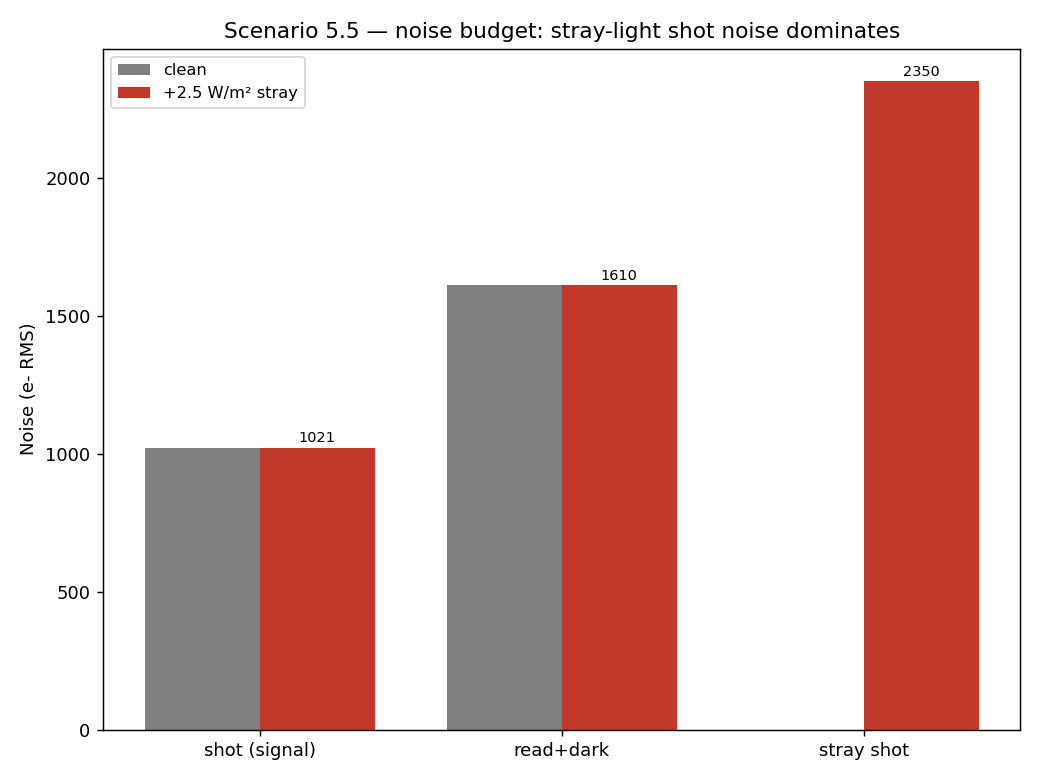
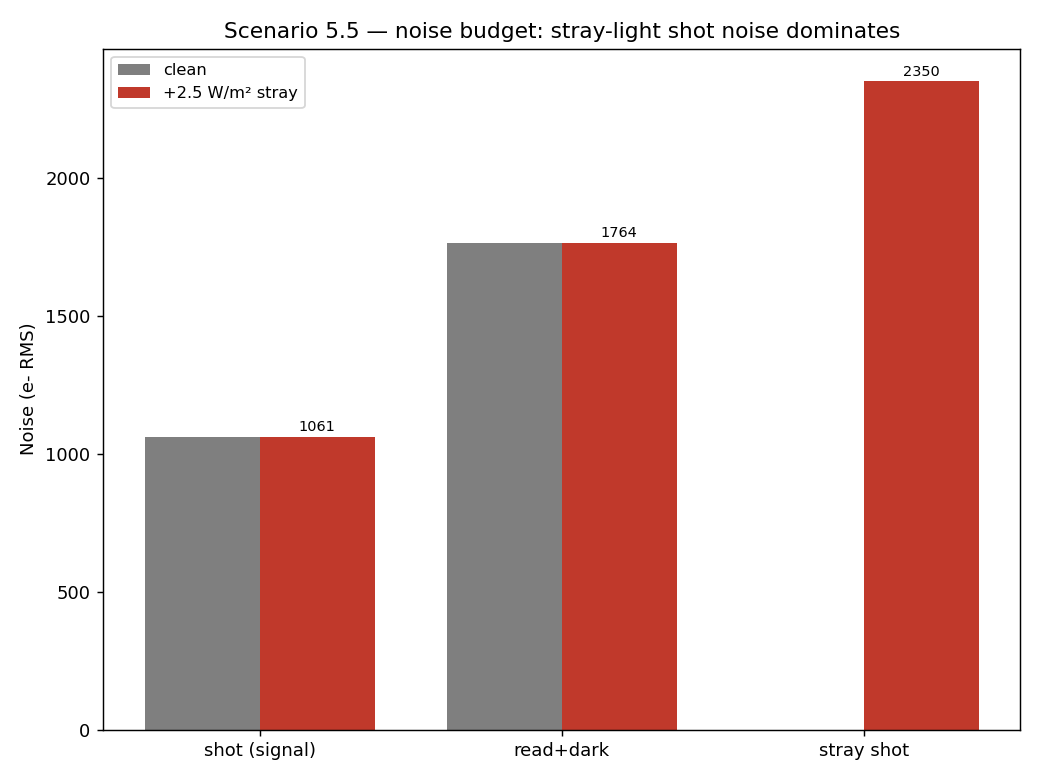
docs(scenarios): CU-176/178 — refresh 5.5 (stray light / veiling glare) + fix runner
Runner: add performance.niirs.allow_extrapolated=True in build() so gated NIIRS
no longer crashes the run (CU-178).

Numbers: post-recalibration VNIR chain shifts contrast SNR and NIIRS slightly
(clean contrast SNR 126.3->131.6, NIIRS 11.070->11.052; 3% VGI ΔNIIRS -0.033->
-0.036). SNR and the out-of-field 'full NIIRS level' conclusion unchanged.
veiling_glare identity now stray_e=1.125e5 at 10% VGI. Refreshed table, truth
anchors, and 2 figures.

Changed region(s): [[0.4308, 0.2769, 0.6769, 0.3692], [0.1231, 0.5231, 0.3692, 0.5846]]

diff --git a/scenarios/05_tom_optical_designer/5.5_stray_light_veiling_glare/scripts/run_straylight_analysis.py b/scenarios/05_tom_optical_designer/5.5_stray_light_veiling_glare/scripts/run_straylight_analysis.py
@@ -102,6 +102,9 @@ def build(
     s.set("spectral_integration.integration_time_s", T_INT_S)
     s.set("readout.read_noise_e_rms", READ_E)
     s.set("readout.full_well_capacity_e", FWC_E)
+    # CU-178: config outside the GIQE-5 envelope → NIIRS N/A by default; opt into
+    # the extrapolated NIIRS trend (read as relative, not calibrated).
+    s.set("performance.niirs.allow_extrapolated", True)
     return s
 
 

diff --git a/scenarios/05_tom_optical_designer/5.5_stray_light_veiling_glare/walkthrough.md b/scenarios/05_tom_optical_designer/5.5_stray_light_veiling_glare/walkthrough.md
@@ -48,15 +48,15 @@ model the veiling-glare MTF / contrast-modulation reduction (gaps.md, Gap 60).
 
 | Case | Stray e- | SNR | Contrast SNR | NIIRS | ΔNIIRS |
 |------|----------|-----|--------------|-------|--------|
-| Clean | 0 | 546.7 | 126.3 | 11.070 | — |
-| Veiling glare 3 % (native mode) | 3.13×10⁴ | 520.3 | 120.8 | 11.037 | −0.033 |
-| Out-of-field 2.5 W/m² | 5.52×10⁶ | 124.3 | 28.7 | 10.068 | **−1.003** |
+| Clean | 0 | 546.7 | 131.6 | 11.052 | — |
+| Veiling glare 3 % (native mode) | 3.38×10⁴ | 518.4 | 125.4 | 11.016 | −0.036 |
+| Out-of-field 2.5 W/m² | 5.52×10⁶ | 124.3 | 29.9 | 10.049 | **−1.003** |
 
 Section 2 verifies the fixed `veiling_glare` mode: at VGI 10 % it yields
-`stray_e = 1.043×10⁵ e- = 0.10 × signal` — exactly the identity.
+`stray_e = 1.125×10⁵ e- = 0.10 × signal` — exactly the identity.
 
 - **3 % veiling glare is a mild penalty** — ~3 % of the signal added as a
-  stray pedestal, costing ~4 % of the contrast SNR and 0.03 NIIRS.
+  stray pedestal, costing ~5 % of the contrast SNR and 0.04 NIIRS.
 - **The 2.5 W/m² out-of-field stray is the real threat** — 5.5×10⁶ stray e-,
   several × the signal, cutting SNR 4.4× and costing a **full NIIRS level**.
 - **Tolerance:** VGI can rise to ~10 % before ΔNIIRS exceeds 0.2 or the
@@ -91,7 +91,7 @@ clean vs +2.5 W/m² — stray shot noise dwarfs read+dark).
   injected irradiance (calibration 2.209×10⁶ e- per W/m²); 2.5 W/m² → 5.52×10⁶
   e-, matching 2.5 × the unit-irradiance run.
 - **Fixed `veiling_glare` mode reproduces the identity**: native stray_e at
-  VGI 10 % equals 0.10 × signal to the digit (1.043×10⁵ e-). The pre-fix bug
+  VGI 10 % equals 0.10 × signal to the digit (1.125×10⁵ e-). The pre-fix bug
   under-counted by (pitch/D)²·(4/π) — the exact solid-angle ratio (CU-062,
   resolved 8cb0448).
 - **Contrast unchanged by a common pedestal**: the target−background signal
